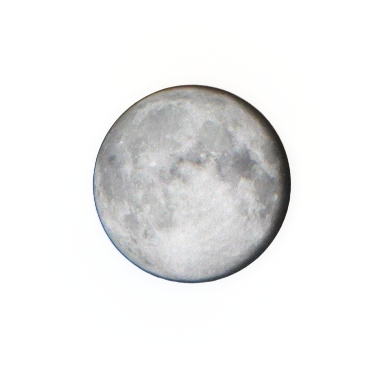
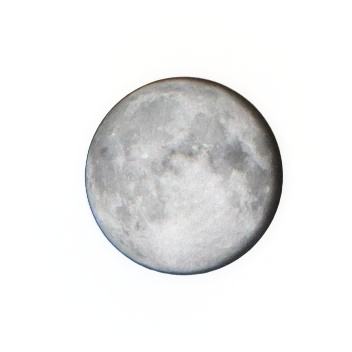
Mondbild knapper zugeschnitten und größer, Titel umbricht wie andere Karten

diff --git a/src/styles/base.css b/src/styles/base.css
@@ -230,13 +230,13 @@ body {
 .sun-curve .sun-dot { fill: #101724; stroke: #fff; stroke-width: 2; }
 
 /* Moon: title, a large phase image and the next upcoming date. Tighter padding than other cards. */
-.widget-frame:has(> .detail.moon) { padding: 8px; }
+.widget-frame:has(> .detail.moon) { padding: 4px; }
 .detail.moon { align-items: stretch; justify-content: flex-start; }
 .detail.moon .card-title { margin-bottom: 2px; }
 .moon-image {
   display: block;
   width: 100%;
-  max-width: 96px;
+  max-width: 100px;
   aspect-ratio: 1;
   object-fit: contain;
   align-self: center;
@@ -251,7 +251,7 @@ body {
 
 /* Wide variant: image on the left, phase details on the right. */
 .moon-wide-body { display: flex; align-items: center; gap: var(--s-3); flex: 1; min-height: 0; }
-.moon-wide .moon-image { max-width: 92px; flex: none; margin: 0; }
+.moon-wide .moon-image { max-width: 104px; flex: none; margin: 0; }
 .moon-wide .moon-info { flex: 1; min-width: 0; }
 
 .warning .big { font-size: 1.25rem; }
@@ -262,7 +262,6 @@ body {
   /* Small cells may show a two-line title rather than cutting words off with an ellipsis. */
   .detail .card-title { margin-bottom: 6px; font-size: 0.625rem; line-height: 1.2; }
   .detail .title-text { white-space: normal; overflow: visible; text-overflow: clip; }
-  .detail.moon .title-text { white-space: nowrap; overflow: hidden; text-overflow: ellipsis; }
   .detail .big { font-size: 1.5rem; }
   .detail .note { margin-top: 4px; }
   .detail .kv { padding: 3px 0; font-size: var(--fs-axis); }
